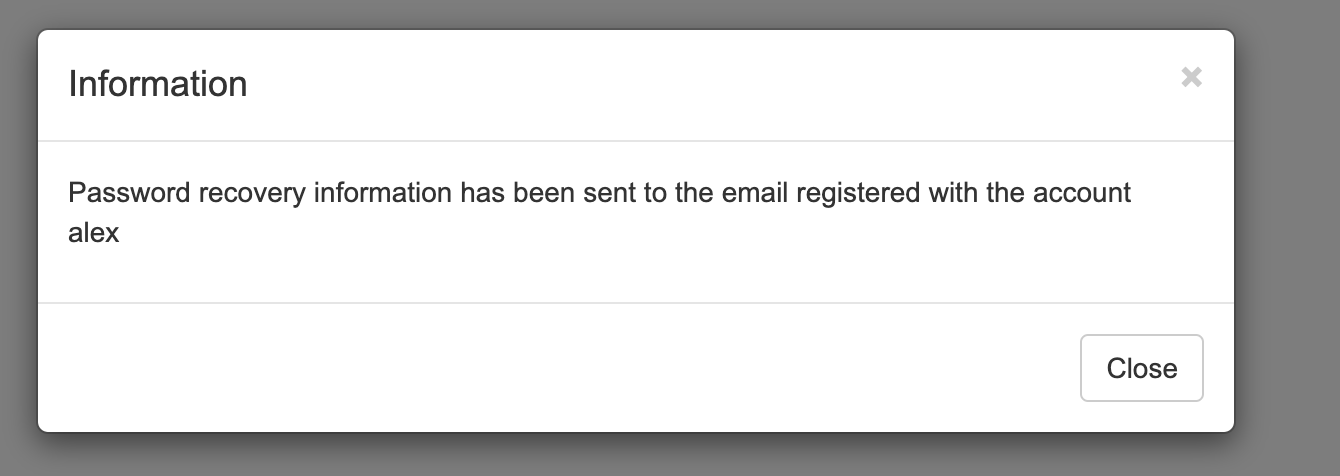
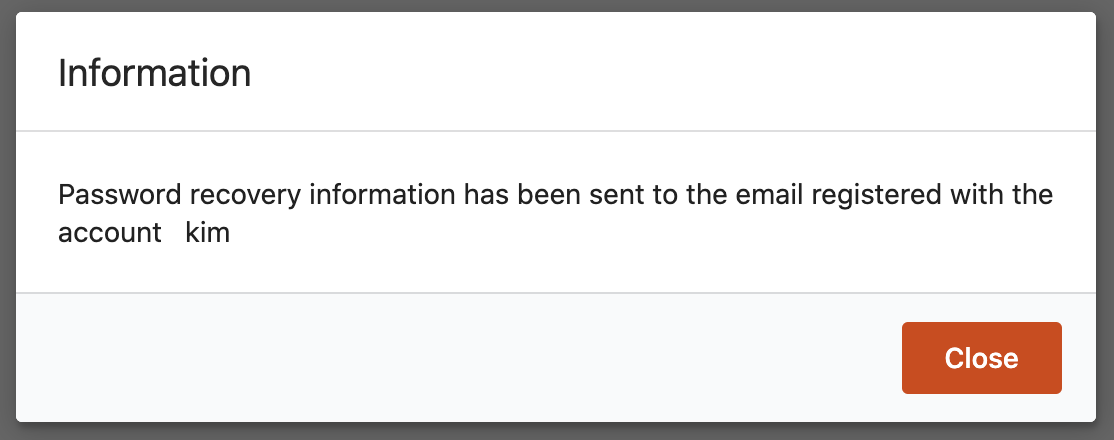
Updated based on SME offline commets

diff --git a/en/docs/install-and-setup/setup/security/user-account-management-for-dev-portal.md b/en/docs/install-and-setup/setup/security/user-account-management-for-dev-portal.md
@@ -1,16 +1,20 @@
-# Identity Management for the API Developer Portal
+# User Account Management for the Developer Portal
 
-Identity management for the API developer portal includes the following features.
+The following sections explain how to manage Developer Portal related user accounts.
 
--   [Password Recovery]({{base_path}}/administer/product-security/identity-management-for-the-api-dev-portal/#password-recovery)
--   [Account locking]({{base_path}}/administer/product-security/identity-management-for-the-api-dev-portal/#account-locking)
--   [Password policies]({{base_path}}/administer/product-security/identity-management-for-the-api-dev-portal/#Password-policies)
+## Password recovery
 
-## Password Recovery
+The password recovery feature does not work out-of-the-box because an email server needs to be configured to be able to send the password recovery email. 
 
-Password recovery feature does not work by default because an email server is not configured to send the password recovery email. Follow the steps below to enable password recovery feature for the API Developer Portal.
+Follow the steps below to enable the password recovery feature for the Developer Portal:
 
-1.  Open the `<API-M_HOME>/repository/conf/deployment.toml` file and add a mail server configuration as shown below. See [Configuring the Email Sending Module](https://is.docs.wso2.com/en/5.10.0/setup/configuring-email-sending/) for more information.
+1. Shut down the server if it is running.
+
+2. Open the `<API-M_HOME>/repository/conf/deployment.toml` file.
+
+3. Add the following properties to configure the a e-mail server. 
+
+     For more information, see [Configuring the Email Sending Module](https://is.docs.wso2.com/en/5.10.0/setup/configuring-email-sending/).
 
     ``` java
     [output_adapter.email]
@@ -23,31 +27,20 @@ Password recovery feature does not work by default because an email server is no
     enable_authentication = true
     ```
 
-2.  After the mail server is configured, the user can click on the **Forgot Password** link on the Sign In page of the API Developer Portal and request a password change.
-    
-    ![signin-forgot-password-link]({{base_path}}/assets/img/administer/product-security/identity-management-for-the-api-dev-portal/forgot-password.png)
-
-3.  Enter the username you are trying to recover the password of and click **Submit**.
-   
-    ![password-recovery-page]({{base_path}}/assets/img/administer/product-security/identity-management-for-the-api-dev-portal/password-recovery-form.png )
-
-4.  You will receive an email with instructions to reset your password. Note that this is email is sent to the email address stored during user sign up.
-
-    !!! note
-        You can change the the template of this email (E.g., email link, message body, etc.). To edit the mail template, open the `<API-M_HOME>/repository/conf/email/email-admin-config.xml` file and make the changes.
+4. Re-start the server.
 
 ## Account locking
 
 You can lock user accounts with the Account recovery and credential management feature, pre-installed in WSO2 API Manager.
 
--   [Account locking by failed login attempts]({{base_path}}/administer/product-security/identity-management-for-the-api-dev-portal/#account-locking-by-failed-login-attempts)
--   [Account locking by an administrative user]({{base_path}}/administer/product-security/identity-management-for-the-api-dev-portal/#account-locking-by-an-administrative-user)
+-   [Account locking by failed login attempts](#account-locking-by-failed-login-attempts)
+-   [Account locking by an administrative user](#account-locking-by-an-administrative-user)
 
 ### Account locking by failed login attempts
 
 The following steps show how to enable account locking. See [Account Locking by Failed Login Attempts](https://is.docs.wso2.com/en/5.10.0/learn/account-locking-by-failed-login-attempts/) for more information. 
 
-1.  Log into the Management Console( `https://<API-M_HOST>:<API-M_PORT>/carbon` ) using admin credentials..
+1.  Sign in to the Management Console (`https://<API-M_HOST>:<API-M_PORT>/carbon`) using admin credentials.
 
 2.  Click **Resident** under **Identity Providers** found in the **Main** tab.
 
@@ -69,11 +62,11 @@ The following steps show how to enable account locking. See [Account Locking by 
 
 An administrative user can lock and unlock a particular user's account through the management console. See [Locking a Specific User Account](https://is.docs.wso2.com/en/5.10.0/learn/locking-a-specific-user-account/) for more information. 
 
-1.  Log in to the Management Console( `https://<API-M_HOST>:<API-M_PORT>/carbon` ) using admin credentials.
+1.  Sign in to the Management Console (`https://<API-M_HOST>:<API-M_PORT>/carbon`) using admin credentials.
 
 2.  Go to **Claims &gt; List** on the **Main** tab and select the `http://wso2.org/claims` claim dialect.
 
-3.  Expand the **Account Locked** claim and click **Edit** .
+3.  Expand the **Account Locked** claim and click **Edit**.
    
     ![account-lock-claim]({{base_path}}/assets/img/administer/product-security/identity-management-for-the-api-dev-portal/account-lock-claim-edit.png)
 

diff --git a/en/docs/install-and-setup/setup/security/logins-and-passwords/maintaining-logins-and-passwords.md b/en/docs/install-and-setup/setup/security/logins-and-passwords/maintaining-logins-and-passwords.md
@@ -9,9 +9,9 @@ Follow the instructions below to change the default admin password:
 1.  Go to `<API-M_HOME>/repository/conf/deployment.toml` and change the user credentials as below.
 
    ``` toml
-       [super_admin]
-       username = "your-name"
-       password = "your-password"
+    [super_admin]
+    username = "your-name"
+    password = "your-password"
    ```
   
 !!! note
@@ -49,7 +49,7 @@ Follow the instructions below to change the default admin password:
     Therefore, if you need to change the admin password stored in the user store, you cannot simply change the credentials as above.
     To change the super admin password, you must use the **Change Password** option from the management console.
       
-    To change the password from Management Console ( <https://localhost:9443/carbon> ), follow the steps in [Changing a Password](https://docs.wso2.com/display/ADMIN44x/Changing+a+Password) corresponding to API Manager.
+    To change the password from Management Console (<https://localhost:9443/carbon>), follow the steps in [Changing a Password](https://docs.wso2.com/display/ADMIN44x/Changing+a+Password) corresponding to API Manager.
 
 ## Recover a password
 
@@ -75,35 +75,13 @@ For information, see [Email Authentication](https://is.docs.wso2.com/en/5.10.0/l
 
 ## Developer Portal
 
-### Change the Developer Portal password
-
-Follow the instructions below to change your password:
-
-1. Sign in to the Developer Portal.
-
-     `https://<hostname>:9443/devportal`
-
-     Example: `https://localhost:9443/devportal`
-
-     Use your username and password to sign in
-  
-2. Click on your username that appears at the top right corner and select **Change Password**.
-  
-     <img src="{{base_path}}/assets/img/learn/change-devportal-password-user-menu-click.png" alt="Change Developer Portal password User Menu" width="300px"/>
-  
-3. Enter your current password, a new password, re-enter the new password, and thereafter click **SAVE** to submit the changes. 
-
-     The new password should adhere to the custom password policies as described below.
-
-     <img src="{{base_path}}/assets/img/learn/change-devportal-password-submiting.png" alt="Developer portal password change submit" width="700"/>
-
-### Sign in via multiple user attributes in Developer Portal
+### Sign in via multiple user attributes
 
 See [Authentication using multiple Attributes](https://is.docs.wso2.com/en/5.10.0/learn/managing-user-attributes/#authentication-using-multiple-attributes) in the WSO2 IS documentation. Follow those instructions on setting up similarly in API Manager.
 
 ### Setup a social media login
 
-You can auto-provision users based on a social network login by integrating the API Manager with WSO2 Identity Server. For more information, see [Log in to the API Developer Portal using Social Media]({{base_path}}/learn/consume-api/customizations/log-in-to-the-api-store-using-social-media/).
+You can auto-provision users based on a social network login by integrating the API Manager with WSO2 Identity Server. For more information, see [Log in to the API Developer Portal using Social Media]({{base_path}}/develop/customizations/log-in-to-the-dev-portal-using-social-media).
 
 !!! note
     Note that auto-provision users based on a social network login are not supported in a **multi-tenant environment**.

diff --git a/en/docs/learn/consume-api/account-management-dev-portal/recover-dev-portal-password.md b/en/docs/learn/consume-api/account-management-dev-portal/recover-dev-portal-password.md
@@ -1,0 +1,18 @@
+# Recover Password for the Developer Portal
+
+!!! note
+    The password recovery feature does not work out-of-the-box because an email server needs to be configured to be able to send the password recovery email. For more information, see Enable Password Recovery for the Developer Portal.
+
+1.  Click **Forgot Password** on the Sign In page of the Developer Portal and request a password change.
+
+    <img src="{{base_path}}/assets/img/administer/product-security/identity-management-for-the-api-dev-portal/forgot-password.png" alt="Forgot password link in sign in page" width="400px"/>
+
+3.  Enter the username you are trying to recover the password of and click **Submit**.
+
+    <img src="{{base_path}}/assets/img/administer/product-security/identity-management-for-the-api-dev-portal/password-recovery-form.png" alt="Password recovery page" width="400px"/>
+
+4.  You will receive an email with instructions to reset your password. 
+
+     <img src="{{base_path}}/assets/img/administer/product-security/identity-management-for-the-api-dev-portal/password-recovery-email-sent.png" alt="Password recovery email confirmation" width="450px"/>
+
+     The password recovery email is sent to the email address that is stored during the Developer Portal user sign up process.

diff --git a/en/docs/learn/consume-api/account-management-dev-portal/change-dev-portal-password.md b/en/docs/learn/consume-api/account-management-dev-portal/change-dev-portal-password.md
@@ -1,0 +1,21 @@
+# Change Password for the Developer Portal
+
+Follow the instructions below to change your own password for the Developer Portal:
+
+1. Sign in to the Developer Portal.
+
+     `https://<hostname>:9443/devportal`
+
+     Example: `https://localhost:9443/devportal`
+
+     Use your username and password to sign in
+  
+2. Click on your username that appears at the top right corner and select **Change Password**.
+  
+     <img src="{{base_path}}/assets/img/learn/change-devportal-password-user-menu-click.png" alt="Change Developer Portal password User Menu" width="250px"/>
+  
+3. Enter your current password, a new password, re-enter the new password, and thereafter click **SAVE** to submit the changes. 
+
+     The new password should adhere to the custom password policies as described below.
+
+     <img src="{{base_path}}/assets/img/learn/change-devportal-password-submiting.png" alt="Developer portal password change submit" width="600"/>
